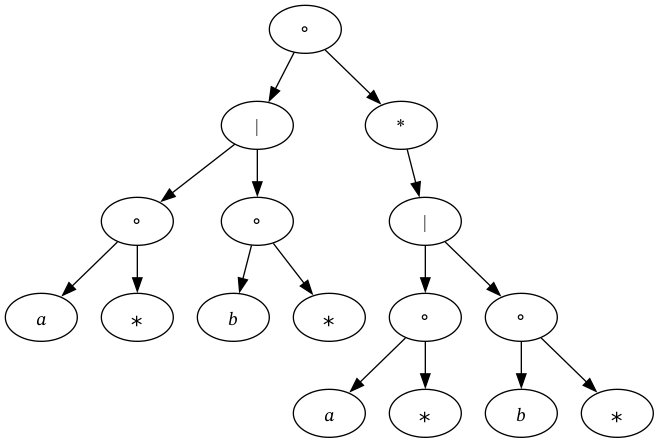
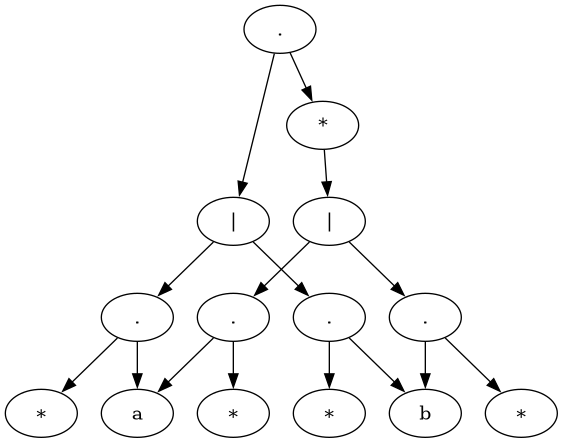
added weird character implementation with the dfa construction

diff --git a/src/parsing/postfix.py b/src/parsing/postfix.py
@@ -10,7 +10,7 @@ def _expandRegex(regex:str) -> str:
         c = regex[i]
 
         match c:
-            case '\\':
+            case '\n':
                 result += c + regex[i + 1]
                 i += 2
                 continue
@@ -30,9 +30,9 @@ def _expandRegex(regex:str) -> str:
                             break
                         j -= 1
                     group = result[j:]
-                    result += '∘' + group + '*'
+                    result += '.' + group + '∗'
                 else:
-                    result = result[:-1] + prev + '∘' + prev + '*'
+                    result = result[:-1] + prev + '.' + prev + '∗'
             case '?':
                 prev:str = result[-1]
                 if prev == ')':
@@ -48,9 +48,9 @@ def _expandRegex(regex:str) -> str:
                             break
                         j -= 1
                     group = result[j:]
-                    result = result[:j] + '(' + group + '|ε)'
+                    result = result[:j] + '(' + group + '|E)'
                 else:
-                    result = result[:-1] + '(' + prev + '|ε)'
+                    result = result[:-1] + '(' + prev + '|E)'
             case _:
                 result += c
 
@@ -63,7 +63,7 @@ def _expandRegex(regex:str) -> str:
 def _formatRegEx(regex):
 
     # this way of doing "static" declaraction I like, but not using the F***** []
-    alloperators:list[str] = ['|', '?', '+', '*', '^', ')']
+    alloperators:list[str] = ['|', '?', '+', '∗', '^', ')']
     binaryoperators:list[str] = ['|', '^', '(']
 
     res:str = str()
@@ -71,7 +71,7 @@ def _formatRegEx(regex):
     for i in range(0, len(regex)):
         c1:str = regex[i]
 
-        if c1 == '\\' and i + 1 < len(regex):
+        if c1 == '\n' and i + 1 < len(regex):
             res += c1 + regex[i + 1]
             i += 1
             continue
@@ -81,11 +81,11 @@ def _formatRegEx(regex):
         if (i + 1 < len(regex)):
             c2:str = regex[i + 1]
 
-            if c2 == '\\' and i + 2 < len(regex):
+            if c2 == '\n' and i + 2 < len(regex):
                 c2 = regex[i + 2]
 
             if c1 != '(' and c2 != ')' and c2 not in alloperators and c1 not in binaryoperators:
-                res += '∘'
+                res += '.'
 
     return res
 
@@ -104,16 +104,16 @@ def infixToPostfix(regex:str) -> str:
     precedence:dict[str,int] = { 
         '(': 1, 
         '|': 2, 
-        '∘': 3, 
+        '.': 3, 
         '?': 4, 
         '+': 4, 
-        '*': 4, 
+        '∗': 4, 
         '^': 5 
     }
 
 
     for i in range(len(formattedRegEx)):
-        if formattedRegEx[i] == '\\' and i + 1 < len(formattedRegEx):
+        if formattedRegEx[i] == '\n' and i + 1 < len(formattedRegEx):
 
             postfix += formattedRegEx[i]
             postfix += formattedRegEx[i + 1]
@@ -146,7 +146,6 @@ def infixToPostfix(regex:str) -> str:
     while (len(stack) > 0):
         postfix += stack.pop()
 
-    print(postfix)
     return postfix
 
 

diff --git a/src/main.py b/src/main.py
@@ -1,5 +1,5 @@
-from match.dfa_match import matchStringToRegex
-from parsing.ast import postfixToAst
+from match.nfa_match import matchStringToRegex
+from parsing.ast import astToGraph, postfixToAst
 from parsing.postfix import infixToPostfix
 from utils.file_parsing import fileReader
 
@@ -8,14 +8,14 @@ if __name__ == "__main__":
     filename:str = "files/regex.txt" 
     lines:list[str] = fileReader(filename) 
 
+    print(lines)
     for line in lines:
+        print(line)
         postfix = infixToPostfix(line)
 
-        # Just for looking how the Nfa should look
+        print(postfix)
 
-        ast = postfixToAst(postfix)
-
-        print(matchStringToRegex(postfix, "a"))
+        print(line,"a",matchStringToRegex(postfix,"bbb"))
 
         # for showing the Ast
 

diff --git a/src/match/nfa_match.py b/src/match/nfa_match.py
@@ -1,6 +1,5 @@
 from parsing.nfa import postfixToNfa
 
-
 # Helper function - Returns set of states that can be reached from state following e arrows
 def followes(state):
   # Create a new set, with state as its only member
@@ -18,6 +17,7 @@ def followes(state):
 
   # Returns the set of states
   return states
+
 def matchStringToRegex(postfix, string):
   # Shunt and compile the regular expression
   nfa = postfixToNfa(postfix)

diff --git a/src/parsing/nfa.py b/src/parsing/nfa.py
@@ -1,4 +1,3 @@
-from graphviz import Digraph
 
 # State class - Represents a state with two arrows, labelled by label.
 class state:
@@ -24,7 +23,7 @@ def postfixToNfa(pofix):
   # one character at a time
   for c in pofix:
     # If c is the 'kleene star' operator
-    if c == '*':
+    if c == '∗':
       # Pops single NFA from the stack
       nfa1 = nfaStack.pop()
       # Creating new initial and accept state

diff --git a/src/utils/file_parsing.py b/src/utils/file_parsing.py
@@ -10,6 +10,5 @@ def fileReader(filename:str) -> list[str]:
         except Exception as e:
             print(f"Error reading {filename}: {e}")
             filename = input("Enter the path to the text file: ")
-    return [line.strip() for line in lines][0:(len(lines) -1)]
-
+    return [line.strip() for line in lines]
 

diff --git a/src/parsing/ast.py b/src/parsing/ast.py
@@ -8,7 +8,7 @@ def postfixToAst(postfix:str) -> str:
 
     for i in range(len(postfix)):
         c = postfix[i]
-        if c == '∘':
+        if c == '.':
             if len(ast) >= 2:
 
                 right = ast.pop()
